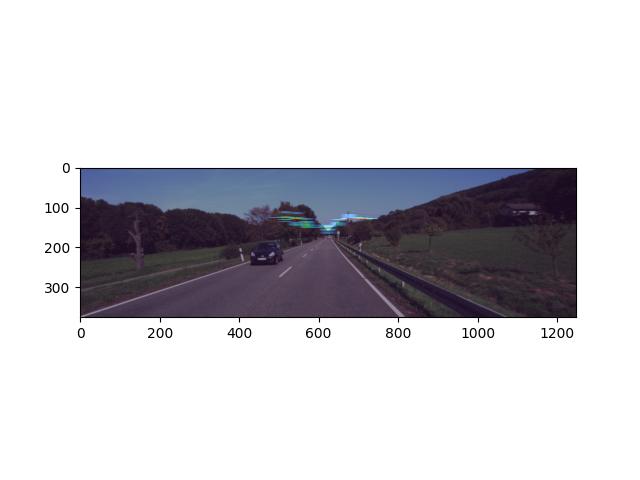
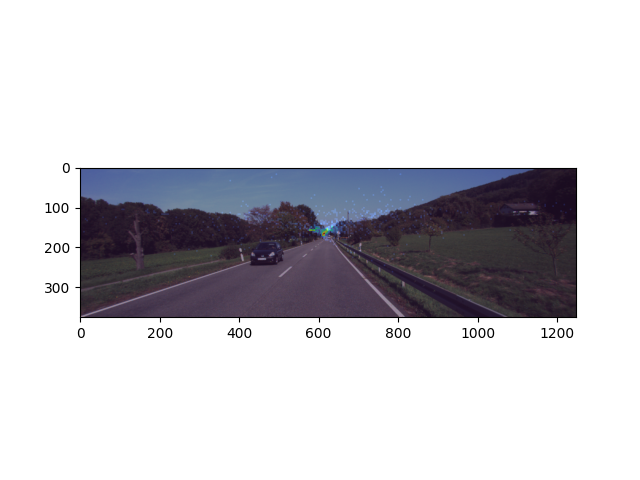
Playing around with heatmap + blur

Changed region(s): [[0.4062, 0.4375, 0.625, 0.5]]

diff --git a/bin/demo.py b/bin/demo.py
@@ -60,8 +60,8 @@ def main(args):
             # get foe
             # NOTE: we can kernel sample coords0 and coords1 to get subset and find FoE for each subset
             # then have the results appended to a list of FoEs
-            foe_size = 40
-            foe_step = 3
+            foe_size = int(args.sample)
+            foe_step = 2
             foe_set = []
             #print(coords0.size())
             for i in range(0, coords0.size()[2] - foe_size - 1, foe_step):
@@ -95,12 +95,27 @@ def main(args):
 
             foe_x, foe_y = zip(*foe_set)
             plt.cla()
-            heatmap, xe, ye = np.histogram2d(foe_x, foe_y, bins=(np.ceil([coords0.size()[2], coords0.size()[3]])).astype(int),range=[[0, img.shape[1]],[0, img.shape[0]]])
+            heatmap, xe, ye = np.histogram2d(foe_x, foe_y, bins=(np.ceil([coords0.size()[3]*2, coords0.size()[2]*2])).astype(int),range=[[0, img.shape[1]],[0, img.shape[0]]])
             ex = [xe[0], xe[-1], ye[0], ye[-1]]
-            plt.imshow(np.flip(heatmap.T,0), extent=[0, img.shape[1], 0, img.shape[0]], cmap=mpl.colormaps['turbo'])
+            if ex[0] > 0:
+                ex[0] = 0
+            if ex[1] < img.shape[1]:
+                ex[1] = img.shape[1]
+            if ex[2] > 0:
+                ex[2] = 2
+            if ex[3] < img.shape[0]:
+                ex[3] = img.shape[0]
+            heatmap = np.flip(heatmap.T,0)
+            plt.imshow(heatmap, extent=ex, cmap=mpl.colormaps['turbo'])
             #plt.scatter(foe_x,foe_y)
             plt.imshow(img / 255.0, alpha=0.5)
             plt.savefig("foe_heatmap.png")
+
+            plt.cla()
+            blurred_hm = cv2.GaussianBlur(heatmap, (7,7), cv2.BORDER_DEFAULT)
+            plt.imshow(blurred_hm, extent=ex, cmap=mpl.colormaps['turbo'])
+            plt.imshow(img / 255.0, alpha=0.5)
+            plt.savefig("foe_heatmap_blur.png")
 
 if __name__ == '__main__':
     parser = argparse.ArgumentParser()
@@ -109,6 +124,7 @@ if __name__ == '__main__':
     parser.add_argument('--small', action='store_true', help='use small model')
     parser.add_argument('--mixed_precision', action='store_true', help='use mixed precision')
     parser.add_argument('--alternate_corr', action='store_true', help='use efficent correlation implementation')
+    parser.add_argument('--sample', default="16",help="use a square of sample to analyze FoEs")
     args = parser.parse_args()
 
     main(args)
